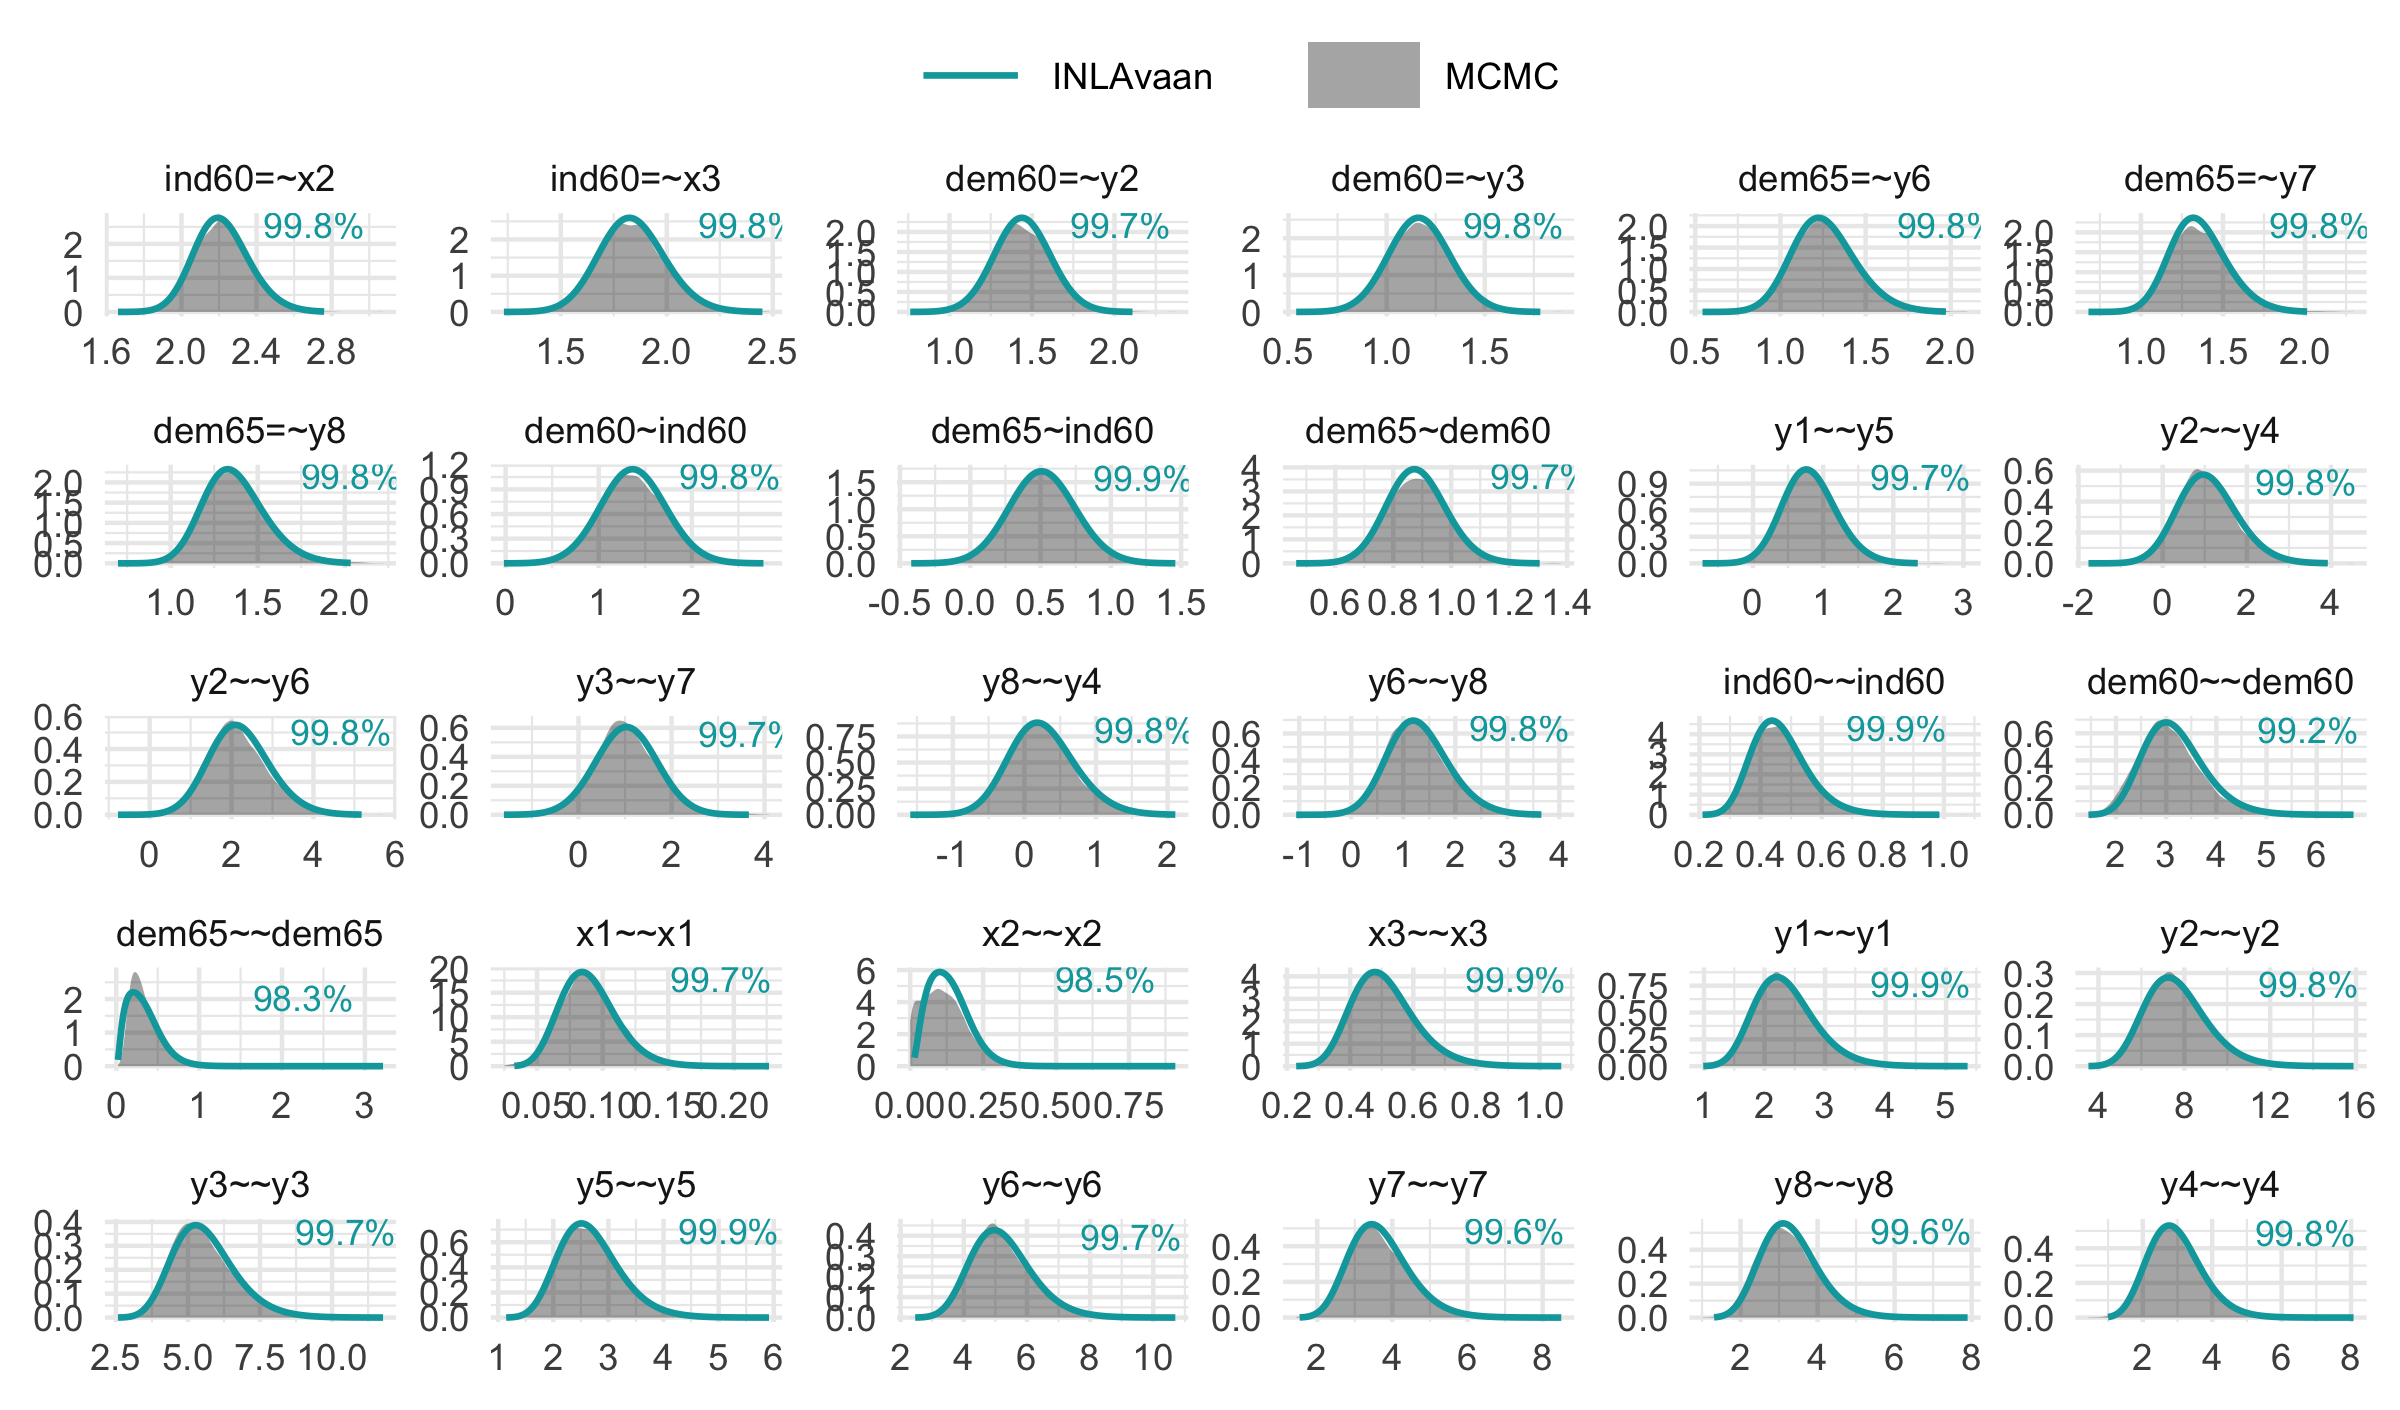
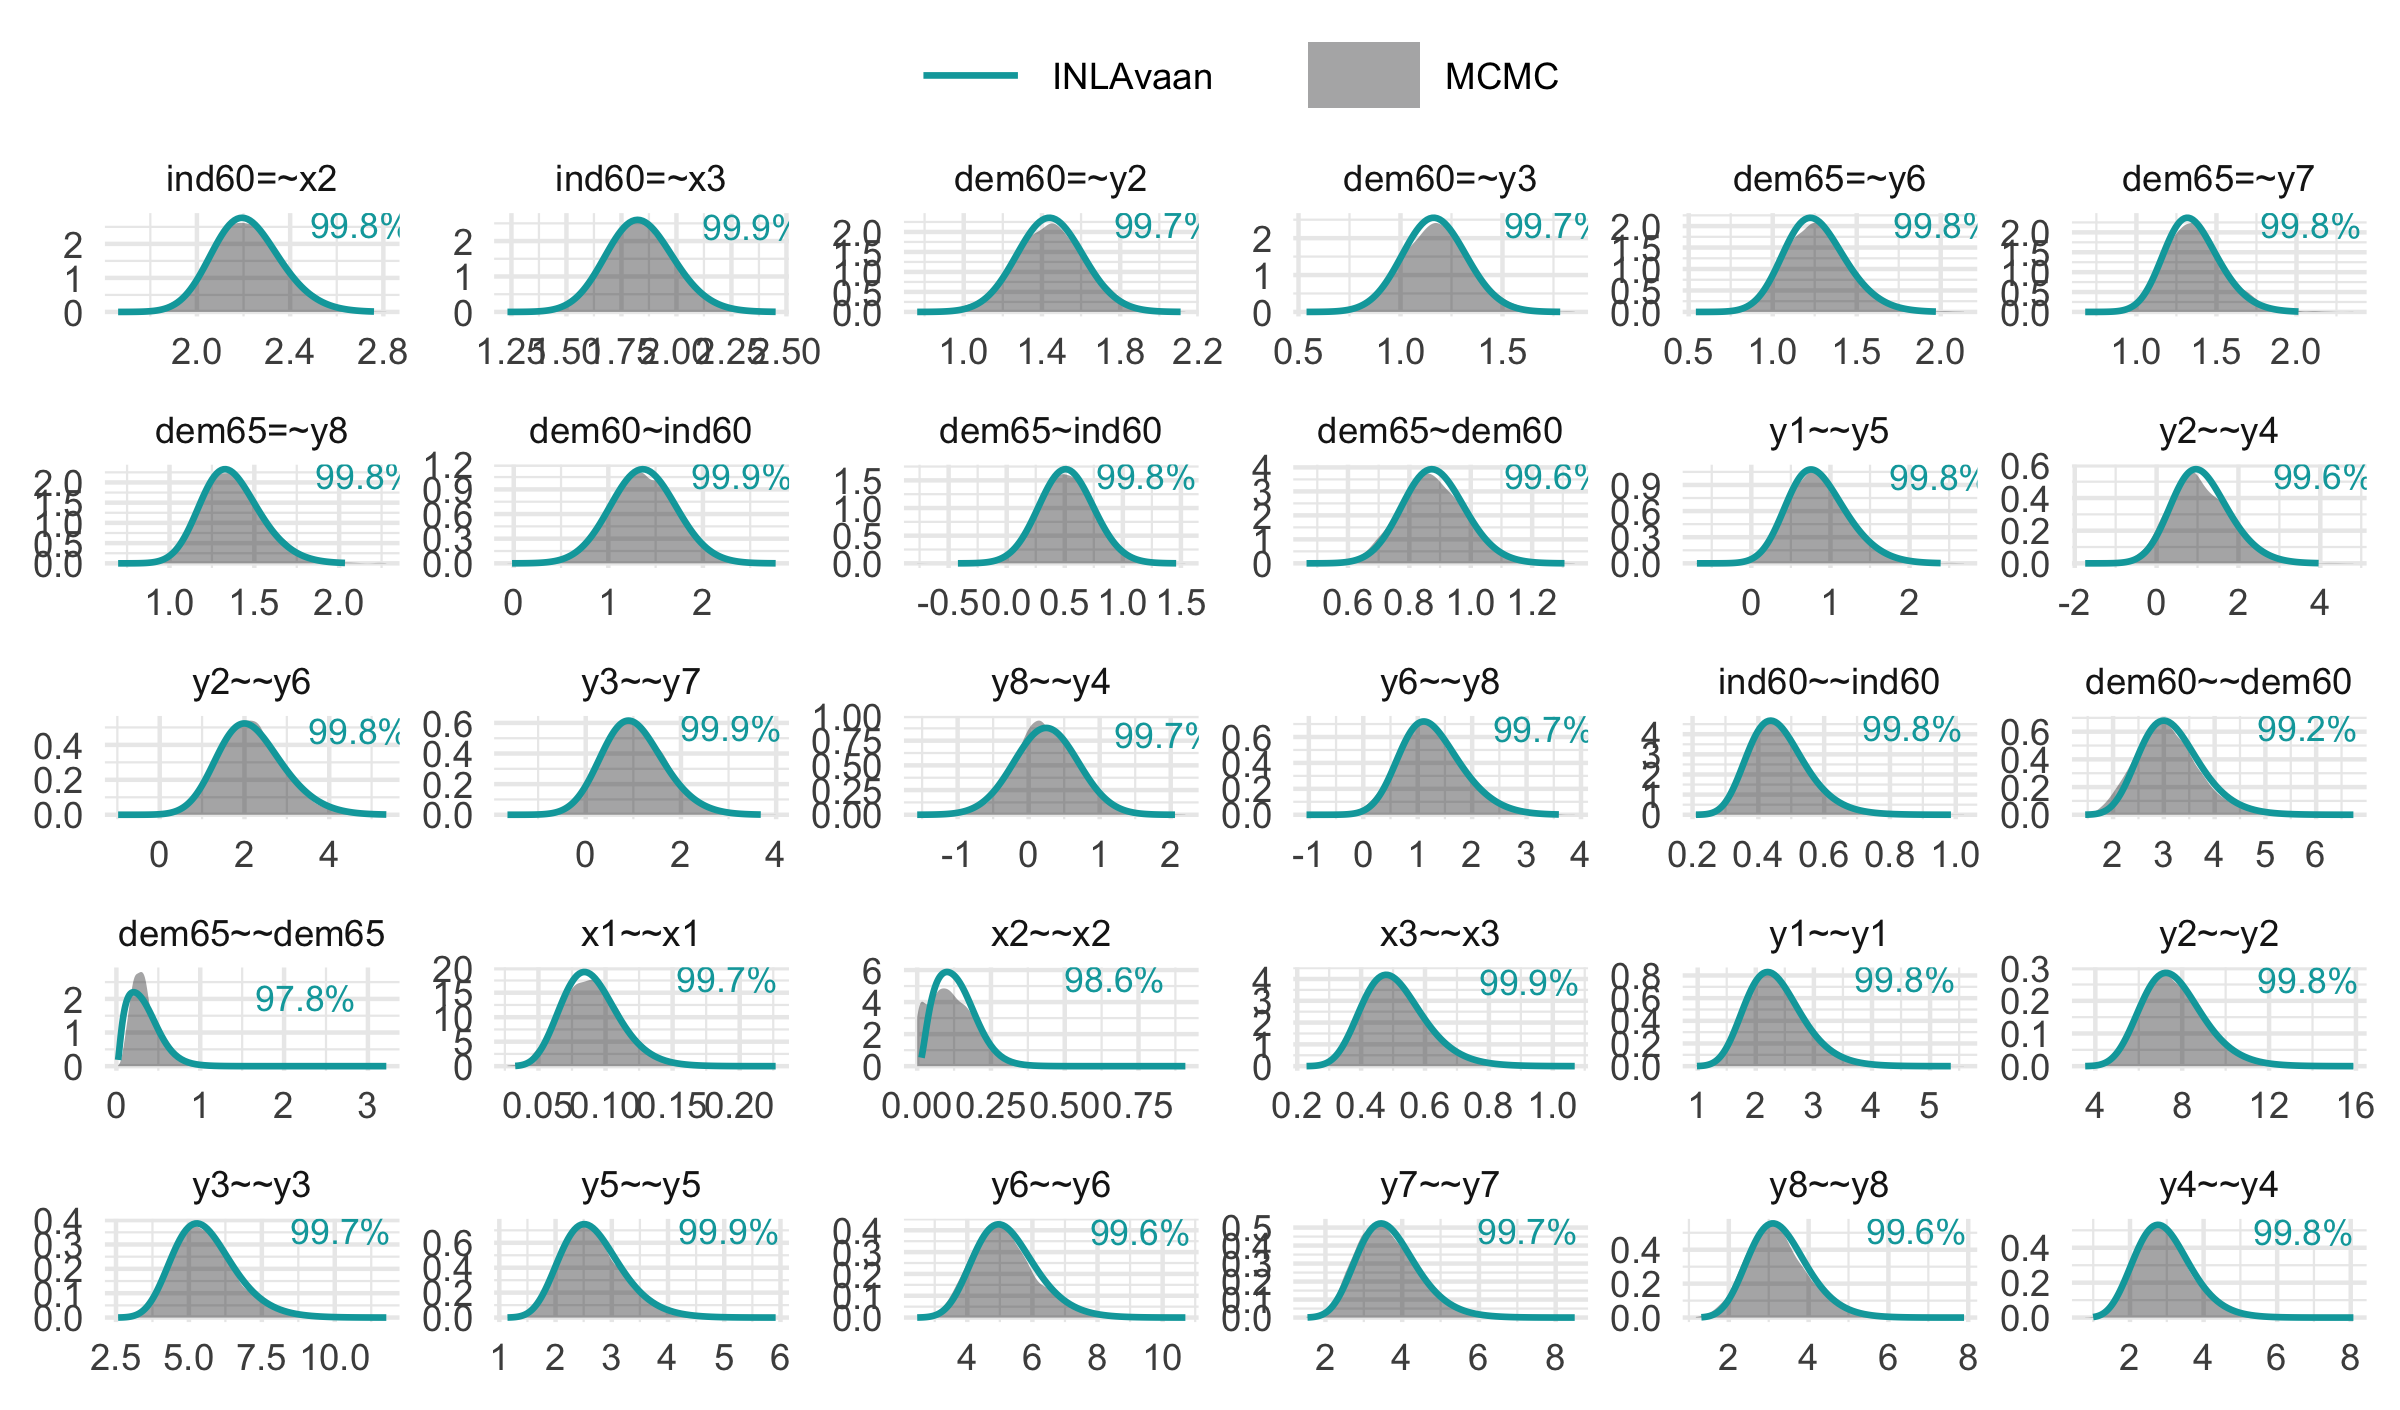
Prepare for CRAN release

diff --git a/README.md b/README.md
@@ -14,9 +14,9 @@ coverage](https://codecov.io/gh/haziqj/INLAvaan/branch/main/graph/badge.svg)](ht
 [![Dependencies](https://tinyverse.netlify.app/badge/INLAvaan)](https://cran.r-project.org/package=INLAvaan)
 [![CRAN
 Downloads](http://cranlogs.r-pkg.org/badges/grand-total/INLAvaan)](https://cran.r-project.org/package=INLAvaan)
-[![GitHub Repo
-stars](https://img.shields.io/github/stars/haziqj/inlavaan)](https://github.com/haziqj/INLAvaan/stargazers)
-<!-- ![GitHub Repo stars](https://img.shields.io/github/stars/haziqj/inlavaan) -->
+![GitHub Repo
+stars](https://img.shields.io/github/stars/haziqj/inlavaan)
+<!-- [![GitHub Repo stars](https://img.shields.io/github/stars/haziqj/inlavaan)](https://github.com/haziqj/INLAvaan/stargazers) -->
 <!-- badges: end -->
 
 > Efficient approximate Bayesian inference for Structural Equation
@@ -74,29 +74,21 @@ utils::data("PoliticalDemocracy", package = "lavaan")
 
 fit <- asem(model = mod_poldem, data = PoliticalDemocracy)
 #> ℹ Mode finding and Hessian computation.
-#> ✔ Posterior mode and Hessian. [85ms]
+#> ✔ Posterior mode and Hessian. [82ms]
 #> 
 #> ℹ Performing VB correction.
-#> ✔ VB correction; mean |δ| = 0.154σ. [208ms]
+#> ✔ VB correction; mean |δ| = 0.154σ. [111ms]
 #> 
 #> ⠙ Fitting 0/30 skew-normal marginals.
-#> ⠹ Fitting 2/30 skew-normal marginals.
-#> ⠸ Fitting 9/30 skew-normal marginals.
-#> ⠼ Fitting 17/30 skew-normal marginals.
-#> ⠴ Fitting 25/30 skew-normal marginals.
-#> ✔ Fit 30/30 skew-normal marginals. [824ms]
-#> 
-#> ℹ Adjusting copula correlations (NORTA).
-#> ✔ Adjust copula correlations (NORTA). [118ms]
+#> ✔ Fit 30/30 skew-normal marginals. [870ms]
 #> 
 #> ⠙ Posterior sampling and summarising.
-#> ⠹ Computing fit indices (PPP/DIC).
-#> ✔ Summarise 1000 posterior draws. [424ms]
+#> ✔ Summarise 1000 posterior draws. [270ms]
 #> 
-#> ℹ Fit measures: PPP, DIC, LOO, WAIC.
+#> ℹ Fit measures: PPP, DIC.
 
 summary(fit)
-#> INLAvaan 0.3.1.9009 ended normally after 71 iterations
+#> INLAvaan 0.3.2 ended normally after 71 iterations
 #> 
 #>   Estimator                                      BAYES
 #>   Optimization method                           NLMINB
@@ -107,12 +99,12 @@ summary(fit)
 #> Model Test (User Model):
 #> 
 #>    Marginal log-likelihood                   -1659.789 
-#>    PPP (Chi-square)                              0.487 
+#>    PPP (Chi-square)                              0.473 
 #> 
 #> Information Criteria:
 #> 
-#>    Deviance (DIC)                             3174.462 
-#>    Effective parameters (pD)                    29.351 
+#>    Deviance (DIC)                             3174.318 
+#>    Effective parameters (pD)                    29.279 
 #> 
 #> Parameter Estimates:
 #> 
@@ -148,16 +140,16 @@ summary(fit)
 #> Covariances:
 #>                    Estimate       SD     2.5%    97.5%     NMAD    Prior       
 #>  .y1 ~~                                                                        
-#>    .y5                0.815    0.384    0.111    1.618    0.005       beta(1,1)
+#>    .y5                0.852    0.385    0.182    1.691    0.005       beta(1,1)
 #>  .y2 ~~                                                                        
-#>    .y4                1.079    0.711   -0.212    2.580    0.004       beta(1,1)
-#>    .y6                2.201    0.744    0.836    3.759    0.011       beta(1,1)
+#>    .y4                1.108    0.713   -0.163    2.635    0.004       beta(1,1)
+#>    .y6                2.183    0.791    0.793    3.895    0.011       beta(1,1)
 #>  .y3 ~~                                                                        
-#>    .y7                1.029    0.658   -0.261    2.320    0.005       beta(1,1)
+#>    .y7                1.016    0.665   -0.184    2.428    0.005       beta(1,1)
 #>  .y8 ~~                                                                        
-#>    .y4                0.257    0.463   -0.582    1.235    0.003       beta(1,1)
+#>    .y4                0.245    0.454   -0.644    1.135    0.003       beta(1,1)
 #>  .y6 ~~                                                                        
-#>    .y8                1.298    0.589    0.238    2.551    0.005       beta(1,1)
+#>    .y8                1.275    0.579    0.279    2.547    0.005       beta(1,1)
 #> 
 #> Variances:
 #>                    Estimate       SD     2.5%    97.5%     NMAD    Prior       

diff --git a/cran-comments.md b/cran-comments.md
@@ -1,6 +1,6 @@
 ## Release summary
 
-* This patch fixes additional CRAN issues (ATLAS, noLD), and NOTE regarding Rd files without \usage. Additionally, further compatability fixes with newly released lavaan 0.7-2 on CRAN.
+* This release contains bug fixes and minor improvements.
 
 ## R CMD check results
 

diff --git a/NEWS.md b/NEWS.md
@@ -1,4 +1,4 @@
-# INLAvaan (development version)
+# INLAvaan 0.3.2
 
 ## Deprecations
 
